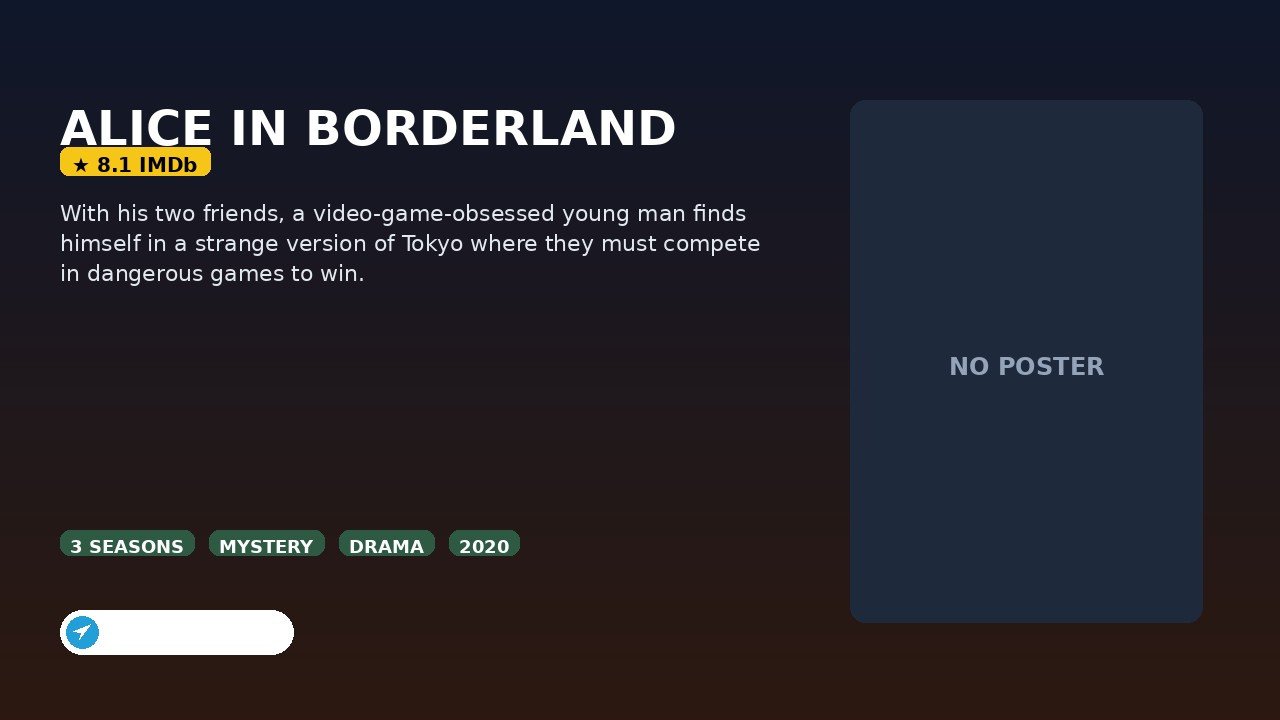
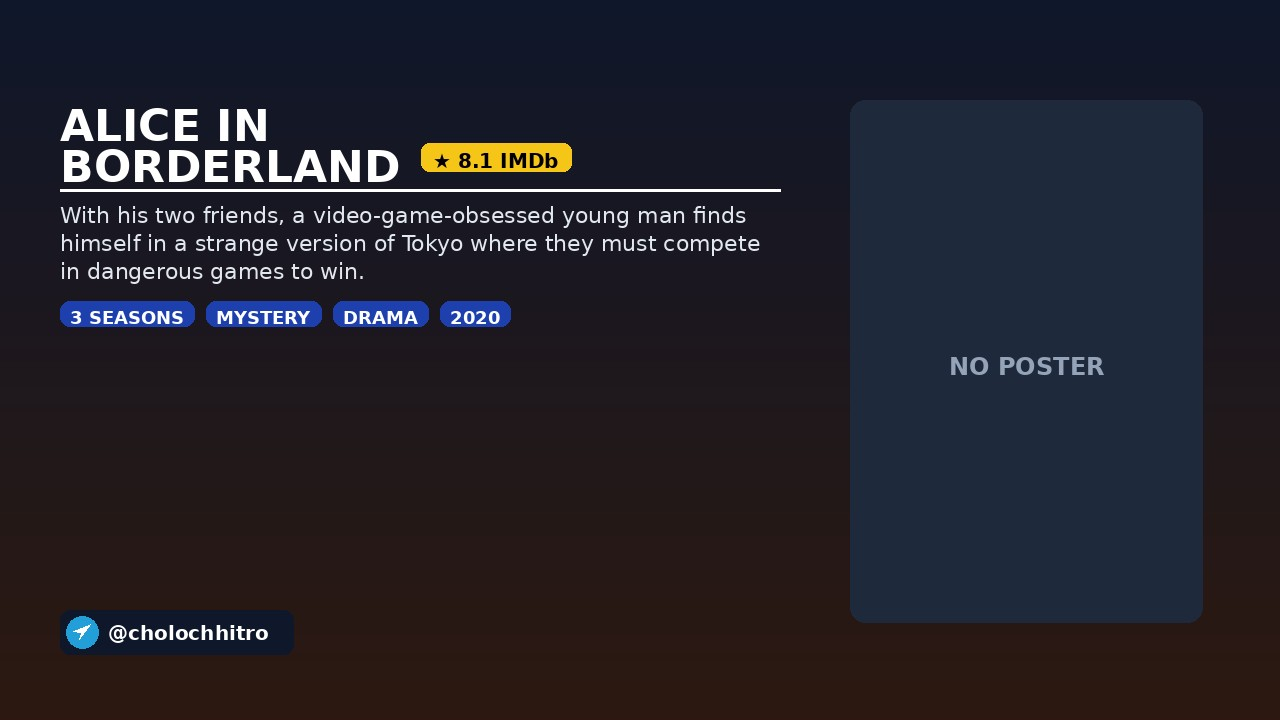
Recreate poster images with updated styling and layouts.
- Add a solid white underline under the title block.
- Place the IMDb rating badge beside the title (centered vertically).
- Decrease vertical gaps by using tighter line spacing and dynamic y coordinate calculation.
- Style the category pills with a semi-transparent royal blue and apply a medium radius of 10 to both pills and the watermark.

diff --git a/poster_generator.py b/poster_generator.py
@@ -160,40 +160,63 @@ async def generate_movie_poster(movie_data):
         draw.text((850 + 176 - tw//2, 100 + 261 - th//2), "NO POSTER", font=f_placeholder, fill="#94A3B8")
 
     # 3. Draw Left-Side Elements
-    # A. Title
+    # A. Title & Rating
     title = str(movie_data.get('title', '')).upper()
-    font_title = load_font(FONT_BOLD, 48)
-
-    # Wrap title if it exceeds width limit (720px)
-    title_lines = wrap_text(title, font_title, 720)
-    current_y = 100
-
-    for line in title_lines:
-        draw.text((60, current_y), line, font=font_title, fill="#FFFFFF")
-        _, lh = get_text_size(line, font_title)
-        current_y += lh + 10
-
-    # B. IMDb Rating Badge
+    font_title = load_font(FONT_BOLD, 44)
     rating = movie_data.get('rating')
+
+    # Calculate IMDb Rating Badge dimensions
+    badge_w = 0
+    badge_h = 0
+    badge_text = ""
+    font_rating = None
     if rating:
-        # Draw dynamic rating badge
         font_rating = load_font(FONT_BOLD, 20)
         badge_text = f"★ {rating:.1f} IMDb"
         tw, th = get_text_size(badge_text, font_rating)
-
-        # Draw pill container
         badge_w = tw + 24
         badge_h = th + 12
+
+    # Wrap title - if rating is present, reduce wrap limit to leave space for rating
+    max_title_width = 720
+    if rating:
+        max_title_width = 720 - (badge_w + 20)
+
+    title_lines = wrap_text(title, font_title, max_title_width)
+    current_y = 100
+
+    for i, line in enumerate(title_lines):
+        draw.text((60, current_y), line, font=font_title, fill="#FFFFFF")
+        lw, lh = get_text_size(line, font_title)
+
+        # If last line and rating exists, place rating beside the title
+        if i == len(title_lines) - 1 and rating:
+            badge_x = 60 + lw + 20
+            # Center vertically with the title line
+            badge_y = current_y + (lh - badge_h) // 2
+            draw.rounded_rectangle(
+                [(badge_x, badge_y), (badge_x + badge_w, badge_y + badge_h)],
+                radius=8,
+                fill="#F5C518"
+            )
+            draw.text((badge_x + 12, badge_y + 6), badge_text, font=font_rating, fill="#000000")
+        current_y += lh + 8
+
+    if not title_lines and rating:
+        badge_x = 60
+        badge_y = current_y
         draw.rounded_rectangle(
-            [(60, current_y), (60 + badge_w, current_y + badge_h)],
+            [(badge_x, badge_y), (badge_x + badge_w, badge_y + badge_h)],
             radius=8,
             fill="#F5C518"
         )
-        # Draw text inside
-        draw.text((60 + 12, current_y + 6), badge_text, font=font_rating, fill="#000000")
-        current_y += badge_h + 25
-    else:
-        current_y += 15
+        draw.text((badge_x + 12, badge_y + 6), badge_text, font=font_rating, fill="#000000")
+        current_y += badge_h + 8
+
+    # Draw solid underline under title
+    underline_y = current_y + 8
+    draw.line([(60, underline_y), (780, underline_y)], fill="#FFFFFF", width=3)
+    current_y = underline_y + 12
 
     # C. Plot description
     plot_text = movie_data.get('plot') or "No description available."
@@ -208,11 +231,11 @@ async def generate_movie_poster(movie_data):
     for line in plot_lines:
         draw.text((60, current_y), line, font=font_plot, fill="#E2E8F0")
         _, lh = get_text_size(line, font_plot)
-        current_y += lh + 8
+        current_y += lh + 6
 
     # D. Metadata badges (Pills)
-    # Target badges at y=530 to align beautifully
-    badge_y = 530
+    # Target badges dynamically to decrease gaps
+    badge_y = current_y + 15
     badges = []
 
     # Kind / Media Type
@@ -242,18 +265,20 @@ async def generate_movie_poster(movie_data):
     # Draw badges
     current_x = 60
     font_badge = load_font(FONT_BOLD, 18)
+    badge_max_h = 0
     for b_text in badges:
         bw, bh = get_text_size(b_text, font_badge)
         pill_w = bw + 20
         pill_h = bh + 12
-        # Semi-transparent forest green: #2e5a44 with alpha 180
+        badge_max_h = max(badge_max_h, pill_h)
+        # Semi-transparent high-contrast blue background with a medium radius 10
         draw.rounded_rectangle(
             [(current_x, badge_y), (current_x + pill_w, badge_y + pill_h)],
             radius=10,
-            fill=(46, 90, 68, 180)
+            fill=(30, 64, 175, 180)
         )
         draw.text((current_x + 10, badge_y + 6), b_text, font=font_badge, fill="#FFFFFF")
-        current_x += pill_w + 15
+        current_x += pill_w + 12
 
     # E. Watermark Banner
     watermark_text = os.environ.get("POSTER_WATERMARK")
@@ -263,7 +288,8 @@ async def generate_movie_poster(movie_data):
         else:
             watermark_text = "@cholochhitro"
 
-    watermark_y = 610
+    # Position the watermark dynamically with a tight gap of 20px, minimum 610px
+    watermark_y = max(badge_y + badge_max_h + 20, 610)
     font_watermark = load_font(FONT_BOLD, 20)
     ww, wh = get_text_size(watermark_text, font_watermark)
 
@@ -273,7 +299,7 @@ async def generate_movie_poster(movie_data):
     pill_h = 44
     draw.rounded_rectangle(
         [(60, watermark_y), (60 + pill_w, watermark_y + pill_h)],
-        radius=22,
+        radius=10, # medium radius 10 instead of 22
         fill=(15, 23, 42, 180) # 70% opacity dark background for high visibility
     )
     # Draw Telegram icon
